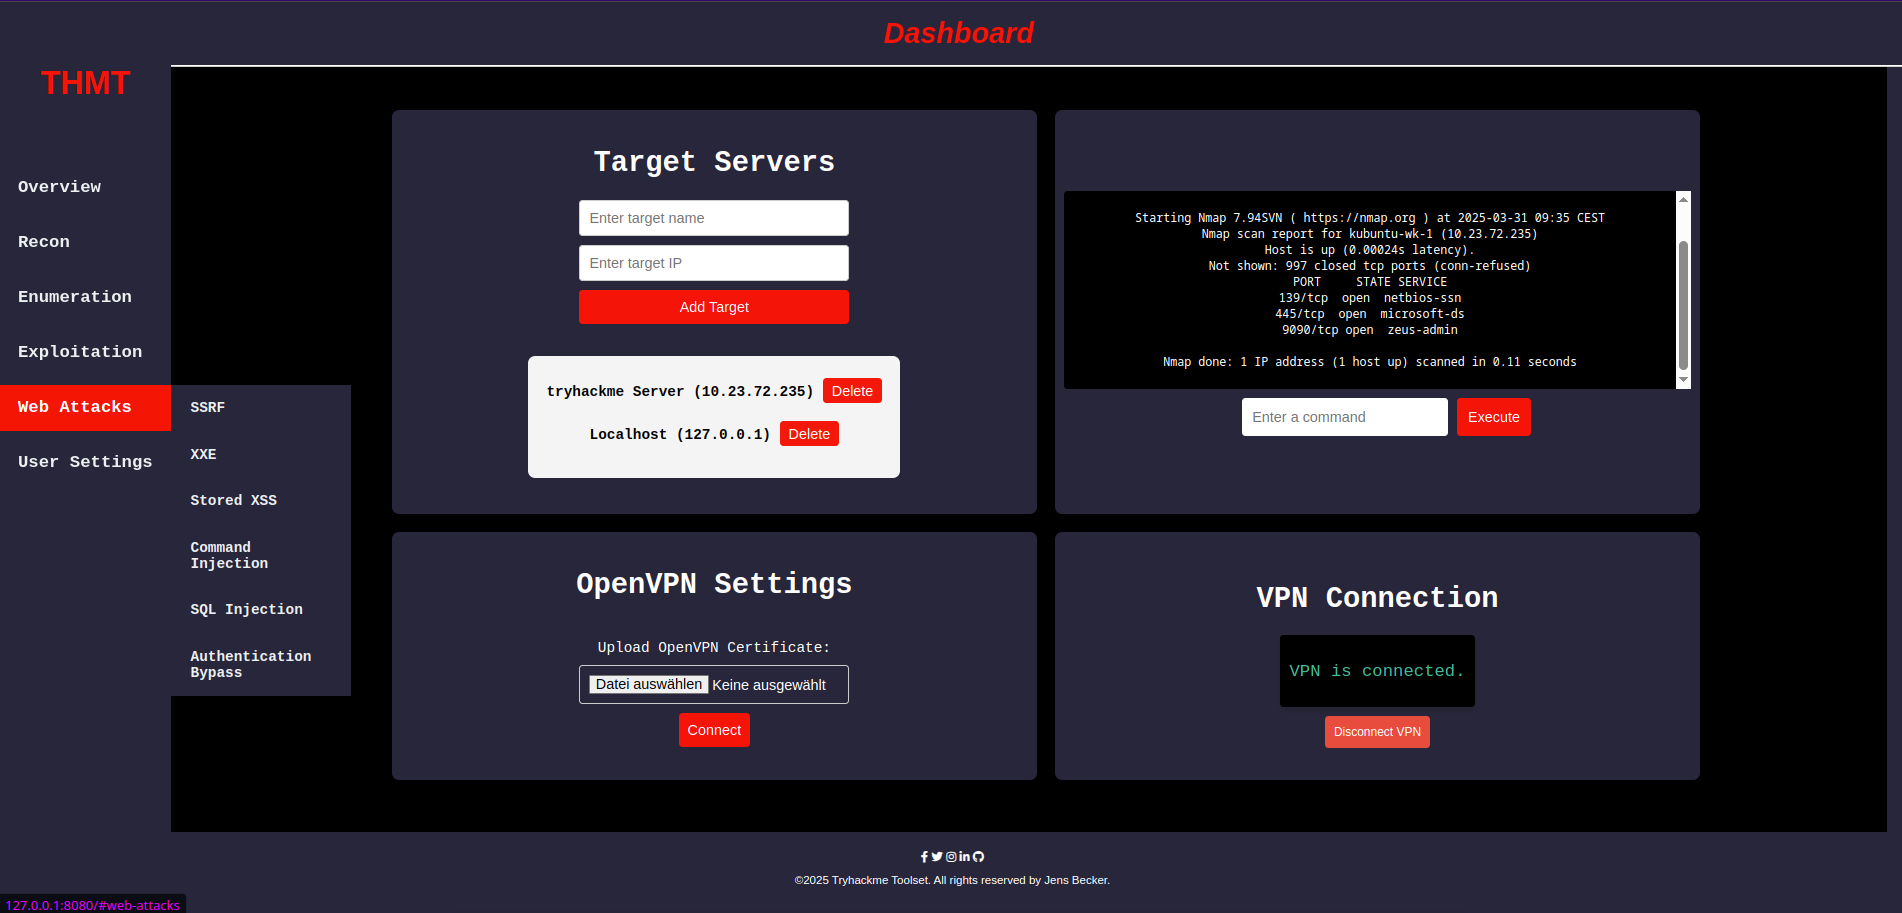
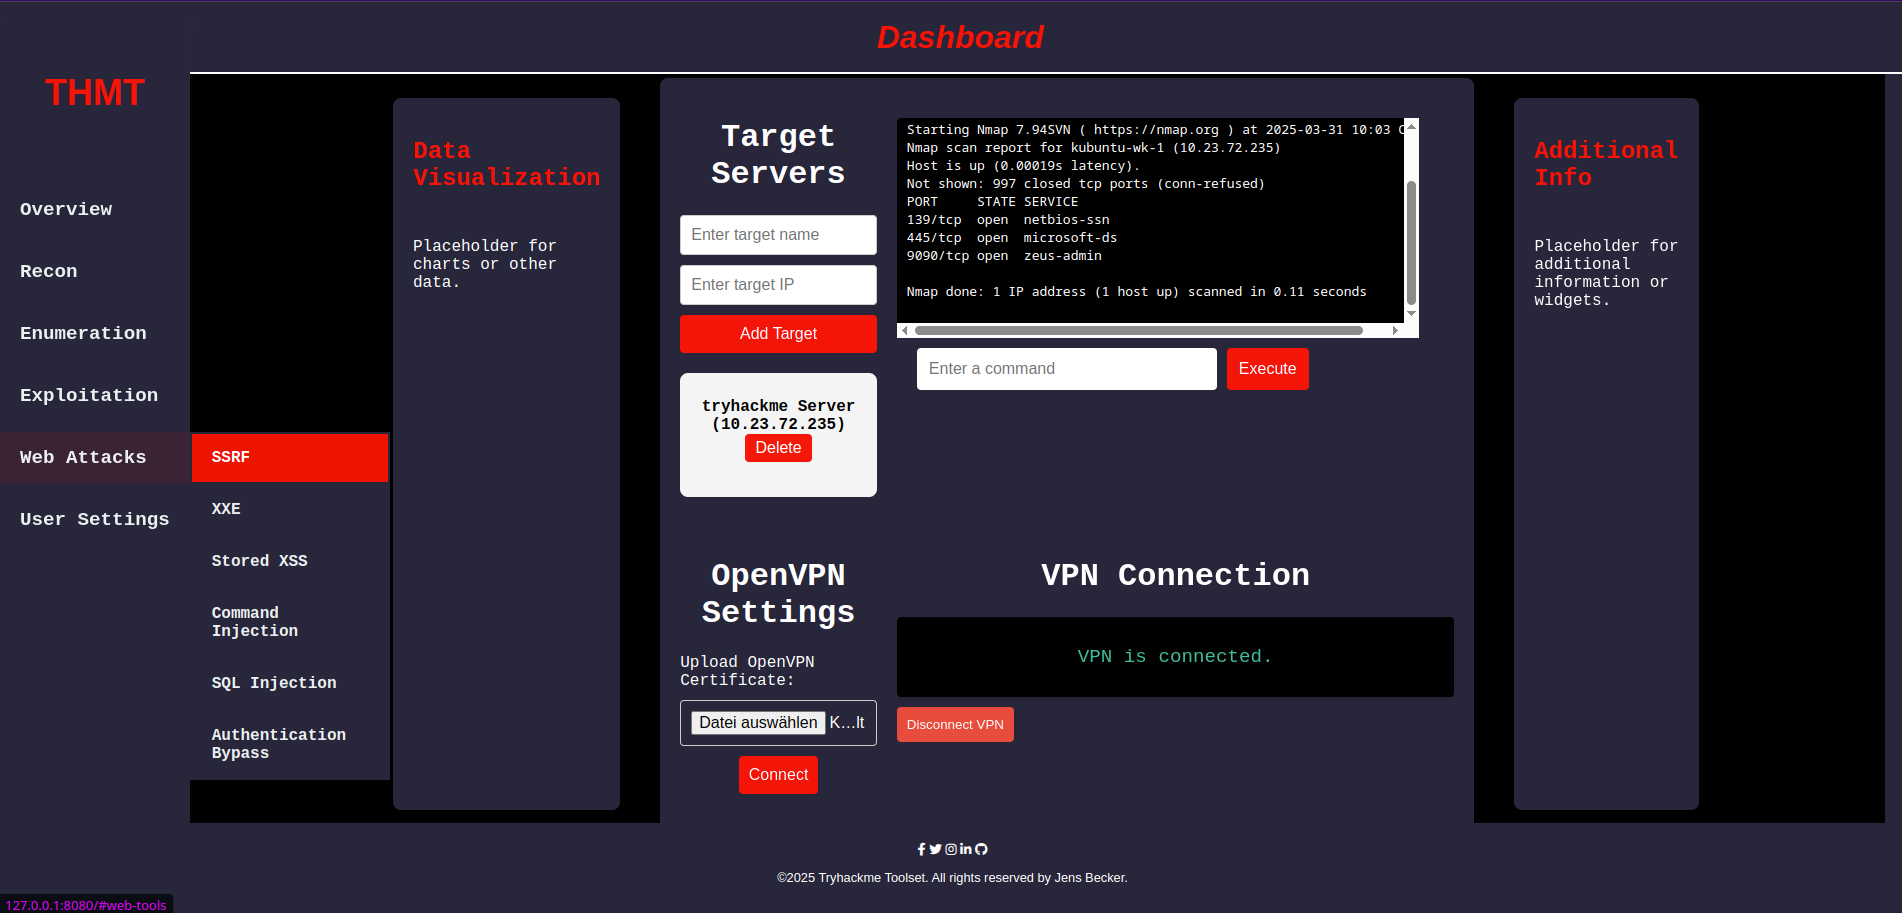
updated README

diff --git a/backend/templates/index.html b/backend/templates/index.html
@@ -77,55 +77,70 @@
                 </ul>
             </aside>
             <div class="content">
-                <div class="dashboard-grid">
+                <div class="dashboard-container">
 
-                    <!-- Section 1 -->
-                    <div class="dashboard-section" id="section-1">
-                        <h1>Target Servers</h1>
-                        <form id="target-form">
-                            <input type="text" id="target-name" placeholder="Enter target name" required>
-                            <input type="text" id="target-ip" placeholder="Enter target IP" required>
-                            <button type="submit" id="add-target-btn">Add Target</button>
-                        </form>
-                        <div class="target-panel">
-                            <ul id="target-list" class="target-list">
-                                <!-- Target servers will be dynamically added here -->
-                            </ul>
+                    <!-- Left Panel -->
+                    <div class="side-panel left-panel">
+                        <h2>Data Visualization</h2>
+                        <p>Placeholder for charts or other data.</p>
+                    </div>
+
+                    <!-- Main Dashboard Grid -->
+                    <div class="dashboard-grid">
+                        <!-- Section 1 -->
+                        <div class="dashboard-section" id="section-1">
+                            <h1>Target Servers</h1>
+                            <form id="target-form">
+                                <input type="text" id="target-name" placeholder="Enter target name" required>
+                                <input type="text" id="target-ip" placeholder="Enter target IP" required>
+                                <button type="submit" id="add-target-btn">Add Target</button>
+                            </form>
+                            <div class="target-panel">
+                                <ul id="target-list" class="target-list">
+                                    <!-- Target servers will be dynamically added here -->
+                                </ul>
+                            </div>
+                        </div>
+
+                        <!-- Section 2 -->
+                        <div class="dashboard-section" id="section-2">
+                            <div id="terminal-output" style="background-color: #000000; color: #ffffff; padding: 10px; margin-top: 20px; height: 200px; overflow-y: auto; border-radius: 4px; font-family: monospace;">
+                                <!-- Command output will be displayed here -->
+                            </div>
+                            <form id="terminal-form" action="/execute-command" method="POST">
+                                <label for="command-input"></label>
+                                <input type="text" id="command-input" name="command" placeholder="Enter a command" required>
+                                <button type="submit">Execute</button>
+                            </form>
+                        </div>
+
+                        <!-- Section 3 -->
+                        <div class="dashboard-section" id="section-3">
+                            <h1>OpenVPN Settings</h1>
+                            <form id="vpn-form" action="/connect-vpn" method="POST" enctype="multipart/form-data">
+                                <label for="vpn-file">Upload OpenVPN Certificate:</label>
+                                <input type="file" id="vpn-file" name="vpn-file" accept=".ovpn" required>
+                                <button type="submit">Connect</button>
+                            </form>
+                        </div>
+
+                        <!-- Section 4 -->
+                        <div class="dashboard-section" id="section-4">
+                            <h1>VPN Connection</h1>
+                            <div id="vpn-status" style="padding: 10px; background-color: #000000; color: #ffffff; border-radius: 4px;">
+                                <!-- VPN status will be displayed here -->
+                                <p>Checking VPN status...</p>
+                            </div>
+                            <button id="disconnect-vpn-btn" style="margin-top: 10px; padding: 10px; background-color: #e74c3c; color: #ffffff; border: none; border-radius: 4px; cursor: pointer;">
+                                Disconnect VPN
+                            </button>
                         </div>
                     </div>
 
-                    <!-- Section 2 -->
-                    <div class="dashboard-section" id="section-2">
-                        <div id="terminal-output" style="background-color: #000000; color: #ffffff; padding: 10px; margin-top: 20px; height: 200px; overflow-y: auto; border-radius: 4px; font-family: monospace;">
-                            <!-- Command output will be displayed here -->
-                        </div>
-                        <form id="terminal-form" action="/execute-command" method="POST">
-                            <label for="command-input"></label>
-                            <input type="text" id="command-input" name="command" placeholder="Enter a command" required>
-                            <button type="submit">Execute</button>
-                        </form>
-                    </div>
-
-                    <!-- Section 3 -->
-                    <div class="dashboard-section" id="section-3">
-                        <h1>OpenVPN Settings</h1>
-                        <form id="vpn-form" action="/connect-vpn" method="POST" enctype="multipart/form-data">
-                            <label for="vpn-file">Upload OpenVPN Certificate:</label>
-                            <input type="file" id="vpn-file" name="vpn-file" accept=".ovpn" required>
-                            <button type="submit">Connect</button>
-                        </form>
-                    </div>
-
-                    <!-- Section 4 -->
-                    <div class="dashboard-section" id="section-4">
-                        <h1>VPN Connection</h1>
-                        <div id="vpn-status" style="padding: 10px; background-color: #000000; color: #ffffff; border-radius: 4px;">
-                            <!-- VPN status will be displayed here -->
-                            <p>Checking VPN status...</p>
-                        </div>
-                        <button id="disconnect-vpn-btn" style="margin-top: 10px; padding: 10px; background-color: #e74c3c; color: #ffffff; border: none; border-radius: 4px; cursor: pointer;">
-                            Disconnect VPN
-                        </button>
+                    <!-- Right Panel -->
+                    <div class="side-panel right-panel">
+                        <h2>Additional Info</h2>
+                        <p>Placeholder for additional information or widgets.</p>
                     </div>
                 </div>
             </div>

diff --git a/backend/static/styles.css b/backend/static/styles.css
@@ -242,9 +242,8 @@ img {
     background-color: black;
     padding-top: 20px;
     padding-bottom: 20px;
-    columns: 1;
     row-gap: 20px;
-    column-gap: 20px;
+    column-gap: 40px;
     font-family: 'Courier New', Courier, monospace;
     padding-left: 20%;
     padding-right: 10%;
@@ -278,25 +277,92 @@ img {
 /* Dashboard Grid Layout */
 .dashboard-grid {
     display: grid;
-    grid-template-columns: 1fr 1fr; /* Two columns */
-    grid-template-rows: 1fr 1fr 1fr;
+    grid-template-columns: 2fr 1fr; /* Two columns */
+    grid-template-rows: 1fr 2fr 1fr;
     gap: 20px;                     /* Space between grid items */
-    height: 100vh;                 /* Full viewport height */
+    height: auto;                 /* Full viewport height */
+    width: auto;
+    padding: auto;
     box-sizing: border-box;
 }
 
-/* Individual Dashboard Sections */
-.dashboard-section {
+* Dashboard Container */
+.dashboard-container {
+    display: grid;
+    gap: 10px;
+    height: auto;
+    width: auto;
+    padding: 10px
+}
+
+/* Side Panels */
+.side-panel {
     background-color: #28263a;
     color: #ffffff;
-    border-radius: 8px;
     padding: 20px;
+    margin: 20px auto;
+    max-width: 300px;
+    border-radius: 8px;
+    box-shadow: 0 4px 6px rgba(0, 0, 0, 0.1);
+    height: auto;
+    width: 200%;
+}
+
+.left-panel {
+    grid-column: 1 / 2; /* Left side */
+}
+
+.right-panel {
+    grid-column: 2 / 3; /* Right side */
+    width: 100%;
+}
+
+/* Main Dashboard Grid */
+.dashboard-grid {
+    grid-column: 3; /* Right side */
+}
+
+/* Side Panels */
+.side-panel {
+    width: 200px;
+    background-color: #28263a;
+    color: #ffffff;
+    padding: 20px;
+    border-radius: 8px;
     box-shadow: 0 4px 6px rgba(0, 0, 0, 0.1);
     display: flex;
     flex-direction: column;
-    justify-content: center;
-    align-items: center;
-    text-align: center;
+    gap: 10px;
+}
+
+.left-panel {
+    float: left;
+    margin-right: 20px;
+}
+
+.right-panel {
+    float: right;
+    margin-left: 20px;
+}
+
+/* Main Dashboard Grid */
+.dashboard-container {
+    display: flex;
+    flex-direction: row;
+    justify-content: space-between;
+    gap: 20px;
+}
+
+.dashboard-grid {
+    flex-grow: 1;
+    display: grid;
+    grid-template-columns: 1fr 1fr; /* Two columns */
+    grid-template-rows: auto; /* Adjust rows automatically */
+    gap: 20px;
+    padding: 20px;
+    background-color: #28263a;
+    border-radius: 8px;
+    box-shadow: 0 4px 6px rgba(0, 0, 0, 0.1);
 }
 
 /* Section Titles */
@@ -510,6 +576,7 @@ img {
     align-items: left; /* Align items vertically */
     justify-items: left;
     margin-top: 10px;
+    width: 100%;
 }
 
 #terminal-form label {
@@ -552,7 +619,7 @@ img {
     border-color: #ffffff;
     border: 2px;
     max-height: 200px;
-    width: 100%;
+    width: 90%;
     height: 150%;
     overflow-y: auto;
     font-family: monospace;
